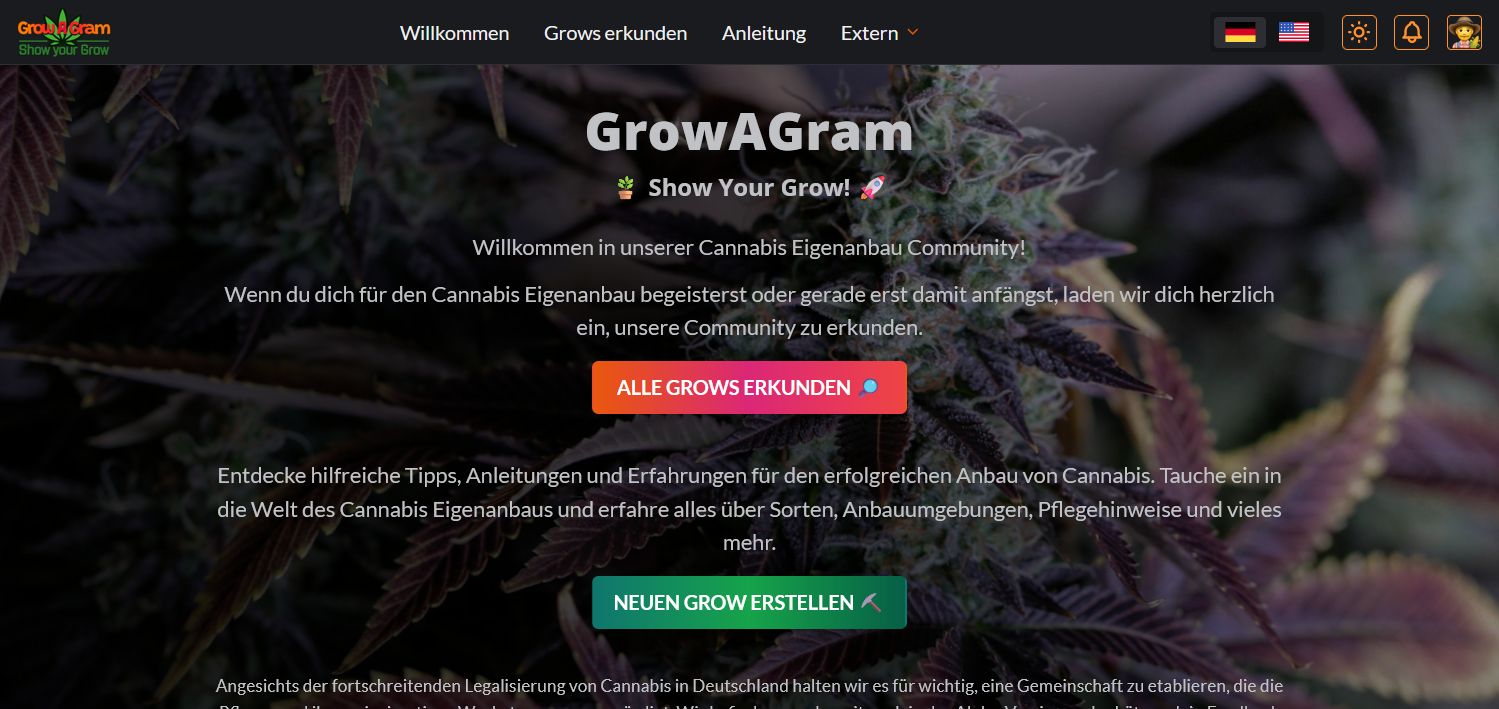
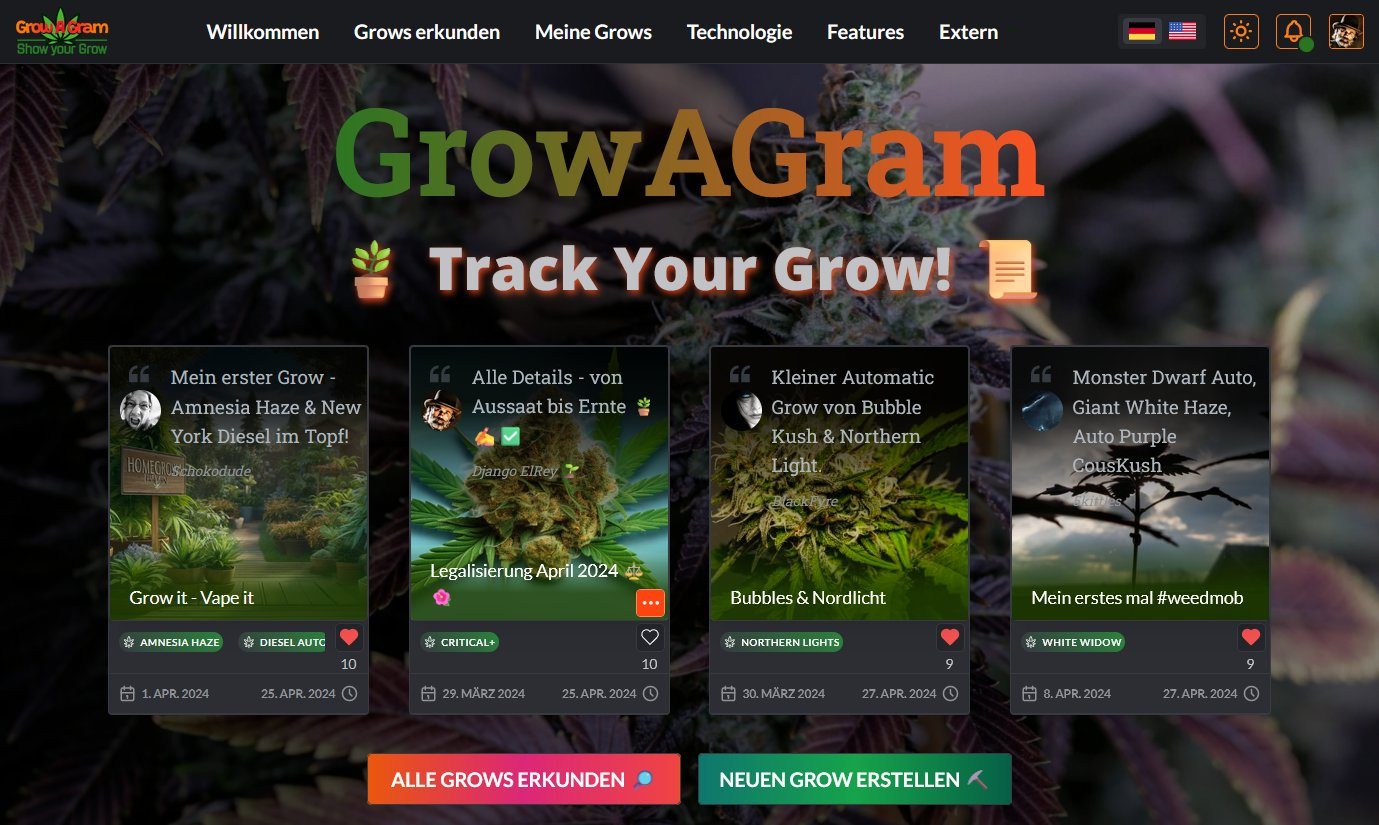
changed tagline: 🪴 Track Your Grow! 📜

diff --git a/src/pages/_document.tsx b/src/pages/_document.tsx
@@ -56,4 +56,4 @@ export default class _Document extends Document {
   }
 }
 
-export const appTitle = "GrowAGram 🪴 Show Your Grow";
+export const appTitle = "GrowAGram 🪴 Track Your Grow! 📜";

diff --git a/README.md b/README.md
@@ -1,4 +1,4 @@
-# GrowAGram 🪴 Show Your Grow! 🚀
+#GrowAGram 🪴 Track Your Grow! 📜
 
 ![GrowAGram Header Screenshot](https://growagram.com/Landing%20_%20GrowAGram%20_%20Show%20your%20Grow%20_%20EN.png "GrowAGram LandingPage Screenshot")
 
